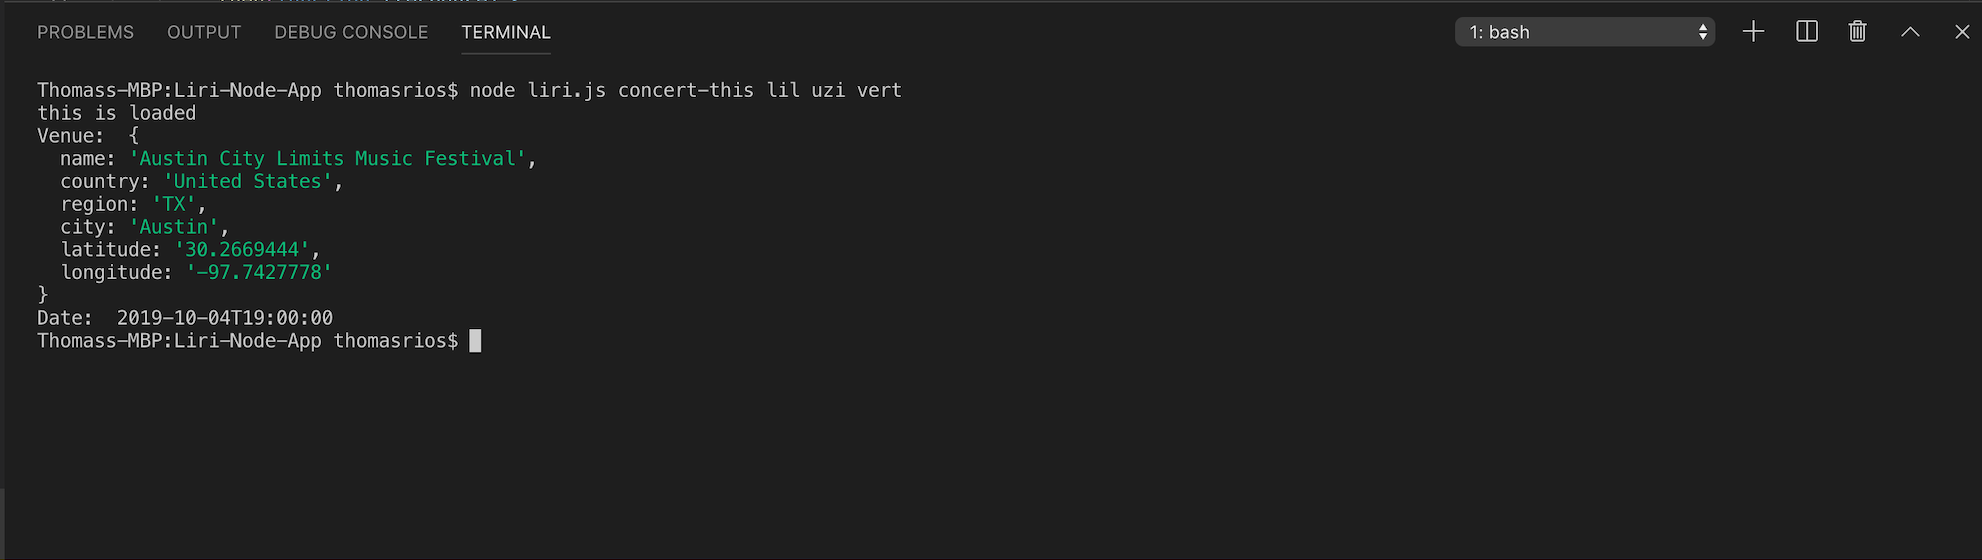
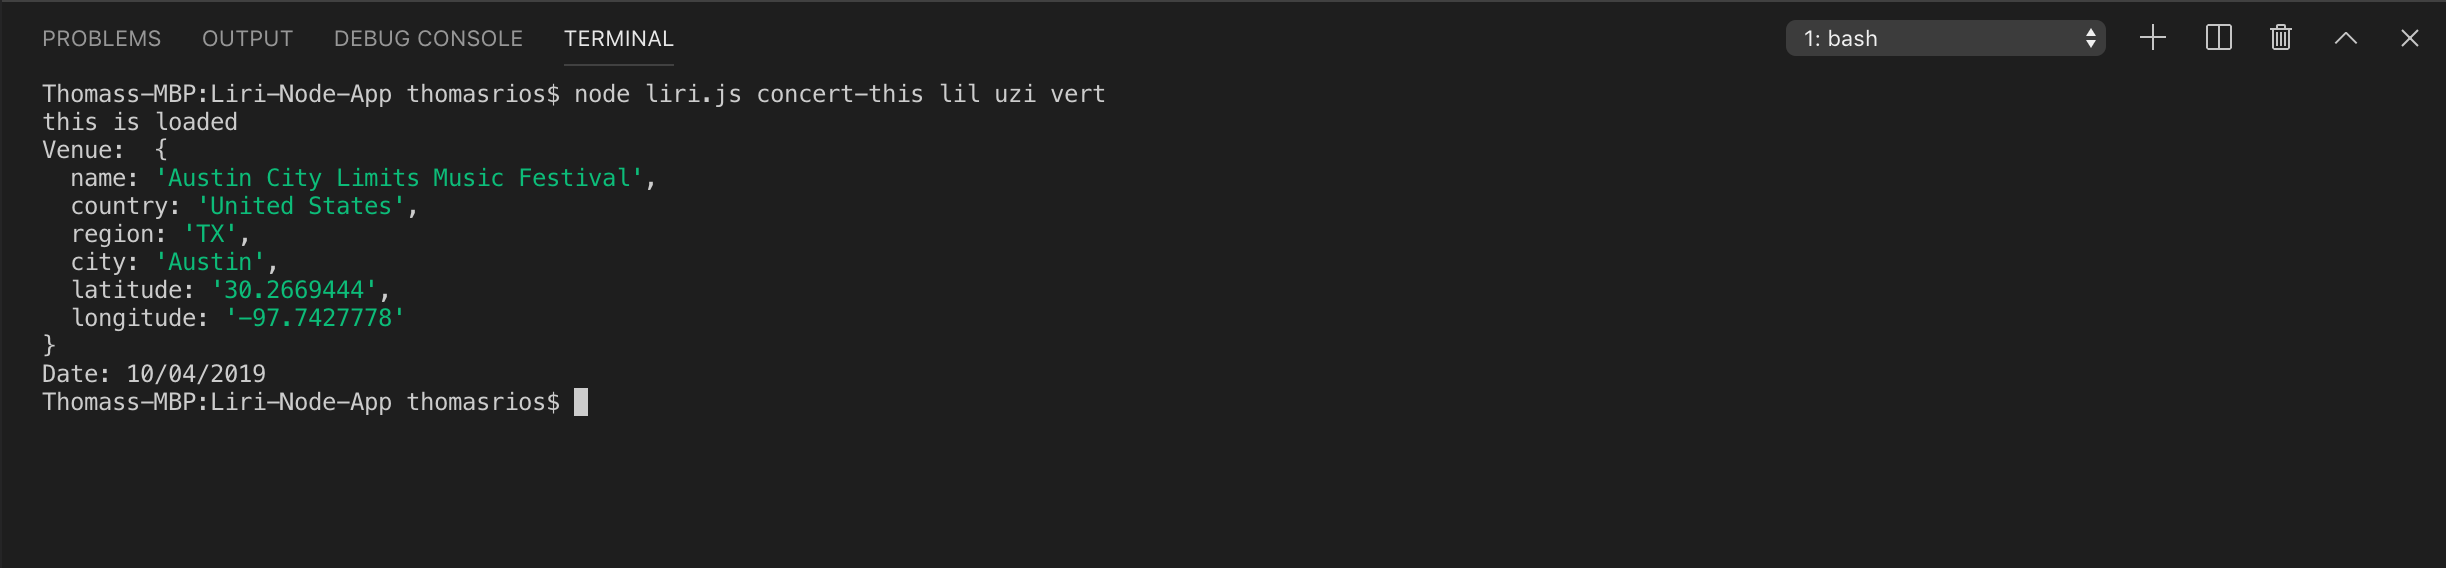
Updated format of concert dates

Changed region(s): [[0.0, 0.1214, 0.4617, 0.7286], [0.7079, 0.0304, 1.0, 0.1214], [0.0, 0.0304, 0.277, 0.1214]]

diff --git a/liri.js b/liri.js
@@ -26,7 +26,7 @@ if (command === "concert-this"){
         // Display venue & date
         .then(function (response) {
             console.log("Venue: ", response.data[0].venue);
-            console.log("Date: ", response.data[0].datetime);
+            console.log("Date: " + moment(response.data[0].datetime).format("MM/DD/YYYY"));
         })
     }
 
